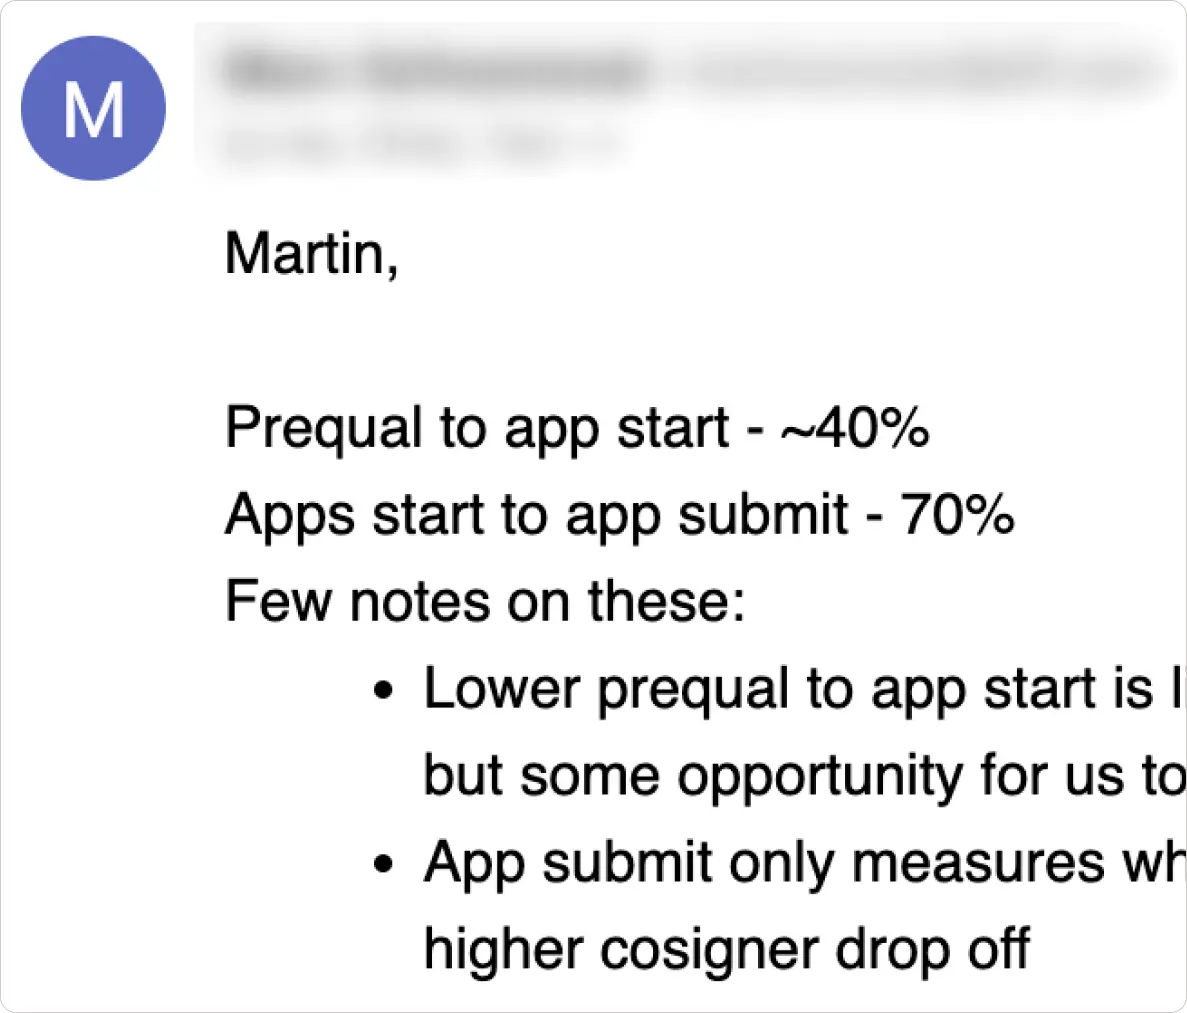
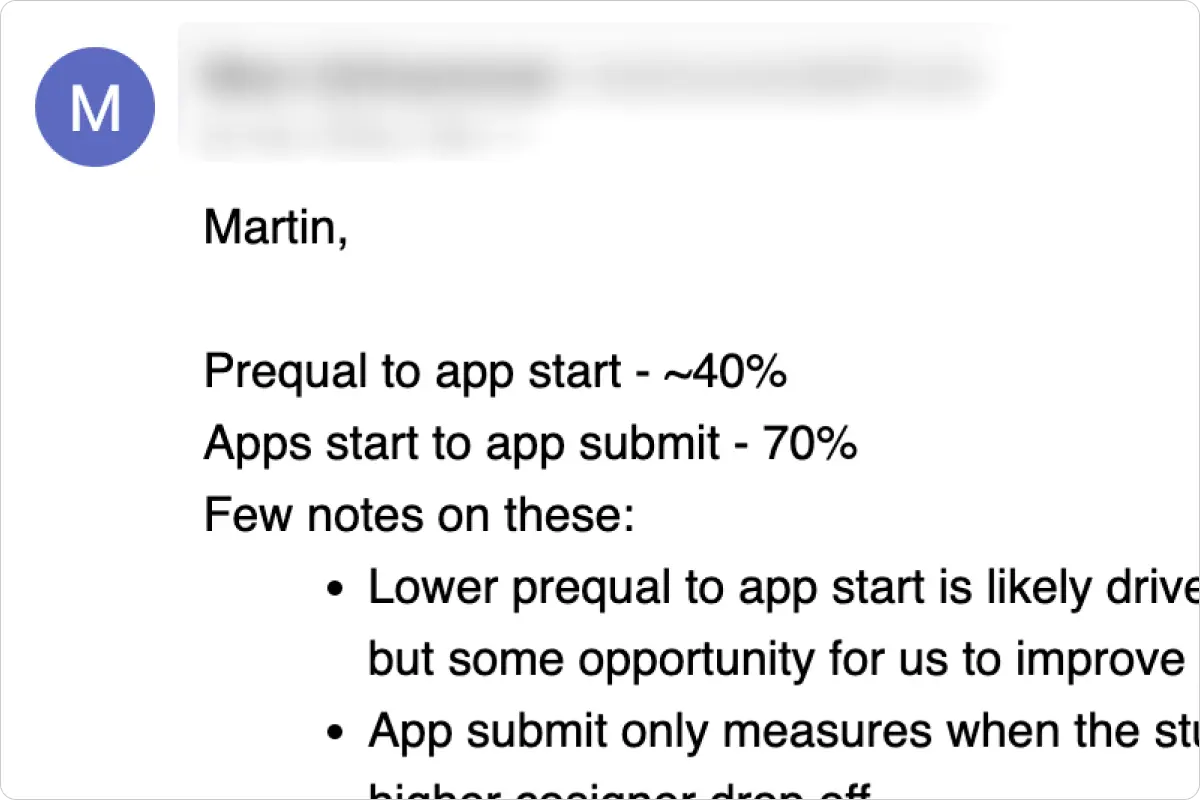
Size case-study frames to each image so the pictures keep their real proportions.

diff --git a/src/components/project-view/project-view.module.css b/src/components/project-view/project-view.module.css
@@ -234,8 +234,19 @@
   inset: 0;
   width: auto;
   height: auto;
+  max-width: none;
   aspect-ratio: auto;
   border-radius: 0;
+}
+
+.hero .frame img,
+.hero .frame video {
+  position: absolute;
+  inset: 0;
+  width: 100%;
+  height: 100%;
+  max-width: none;
+  object-fit: cover;
 }
 
 .heroDevice {
@@ -420,8 +431,9 @@
 
 .frame {
   position: relative;
-  width: 100%;
-  aspect-ratio: var(--ratio);
+  width: fit-content;
+  max-width: 100%;
+  height: auto;
   overflow: hidden;
   background: transparent;
   border-radius: 0;
@@ -429,11 +441,11 @@
 
 .frame img,
 .frame video {
-  position: absolute;
-  inset: 0;
-  width: 100%;
-  height: 100%;
-  object-fit: cover;
+  display: block;
+  width: auto;
+  max-width: 100%;
+  height: auto;
+  object-fit: contain;
 }
 
 .marker {
